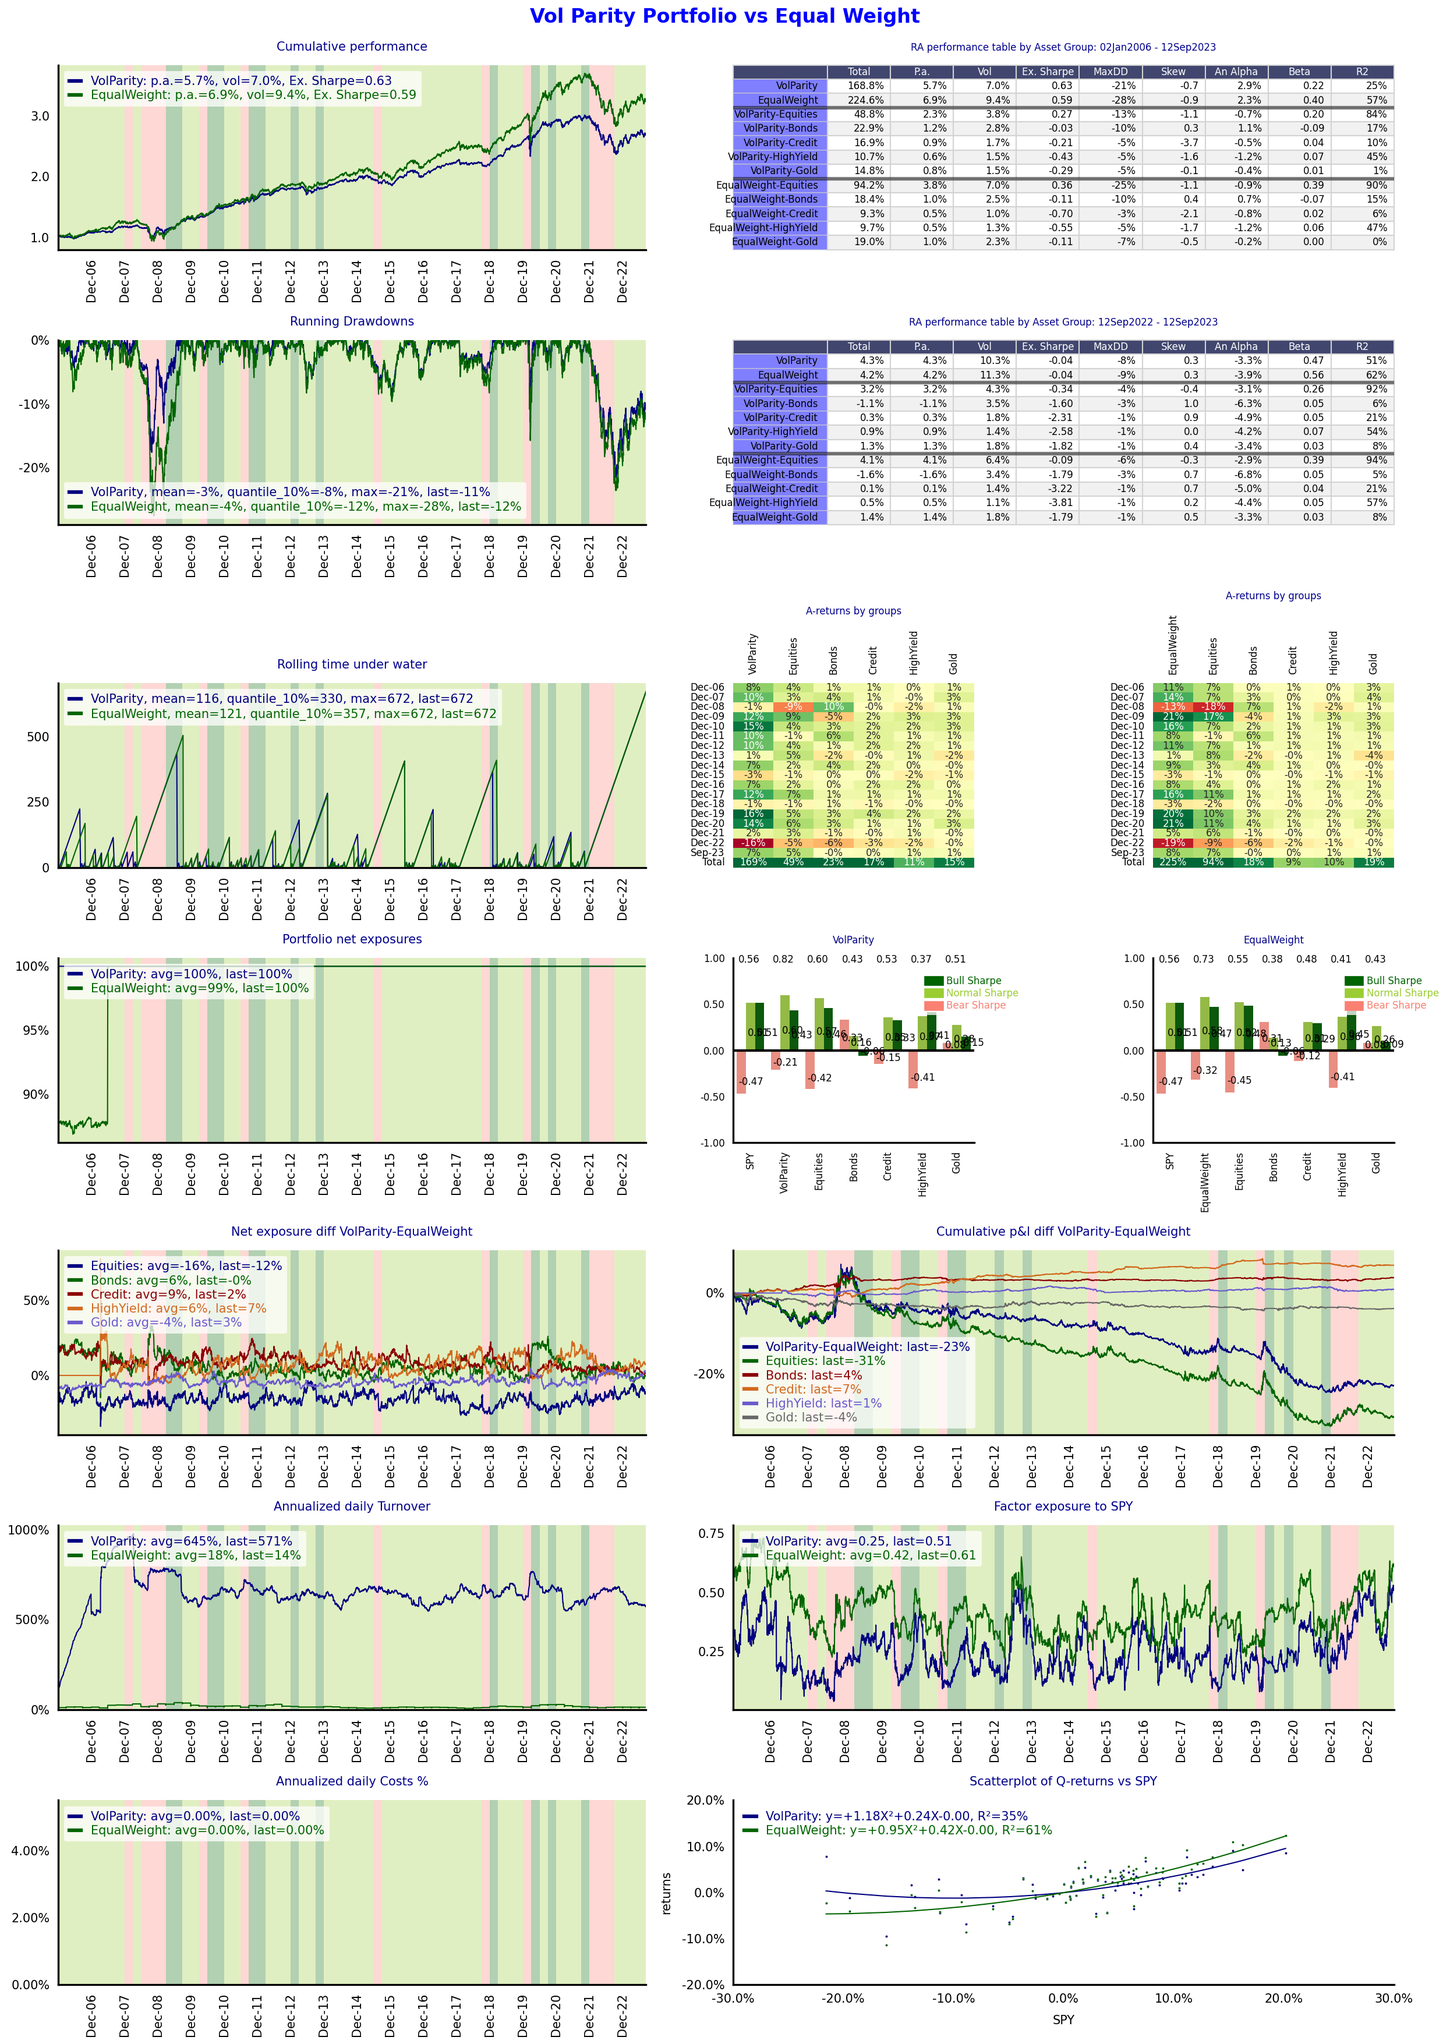
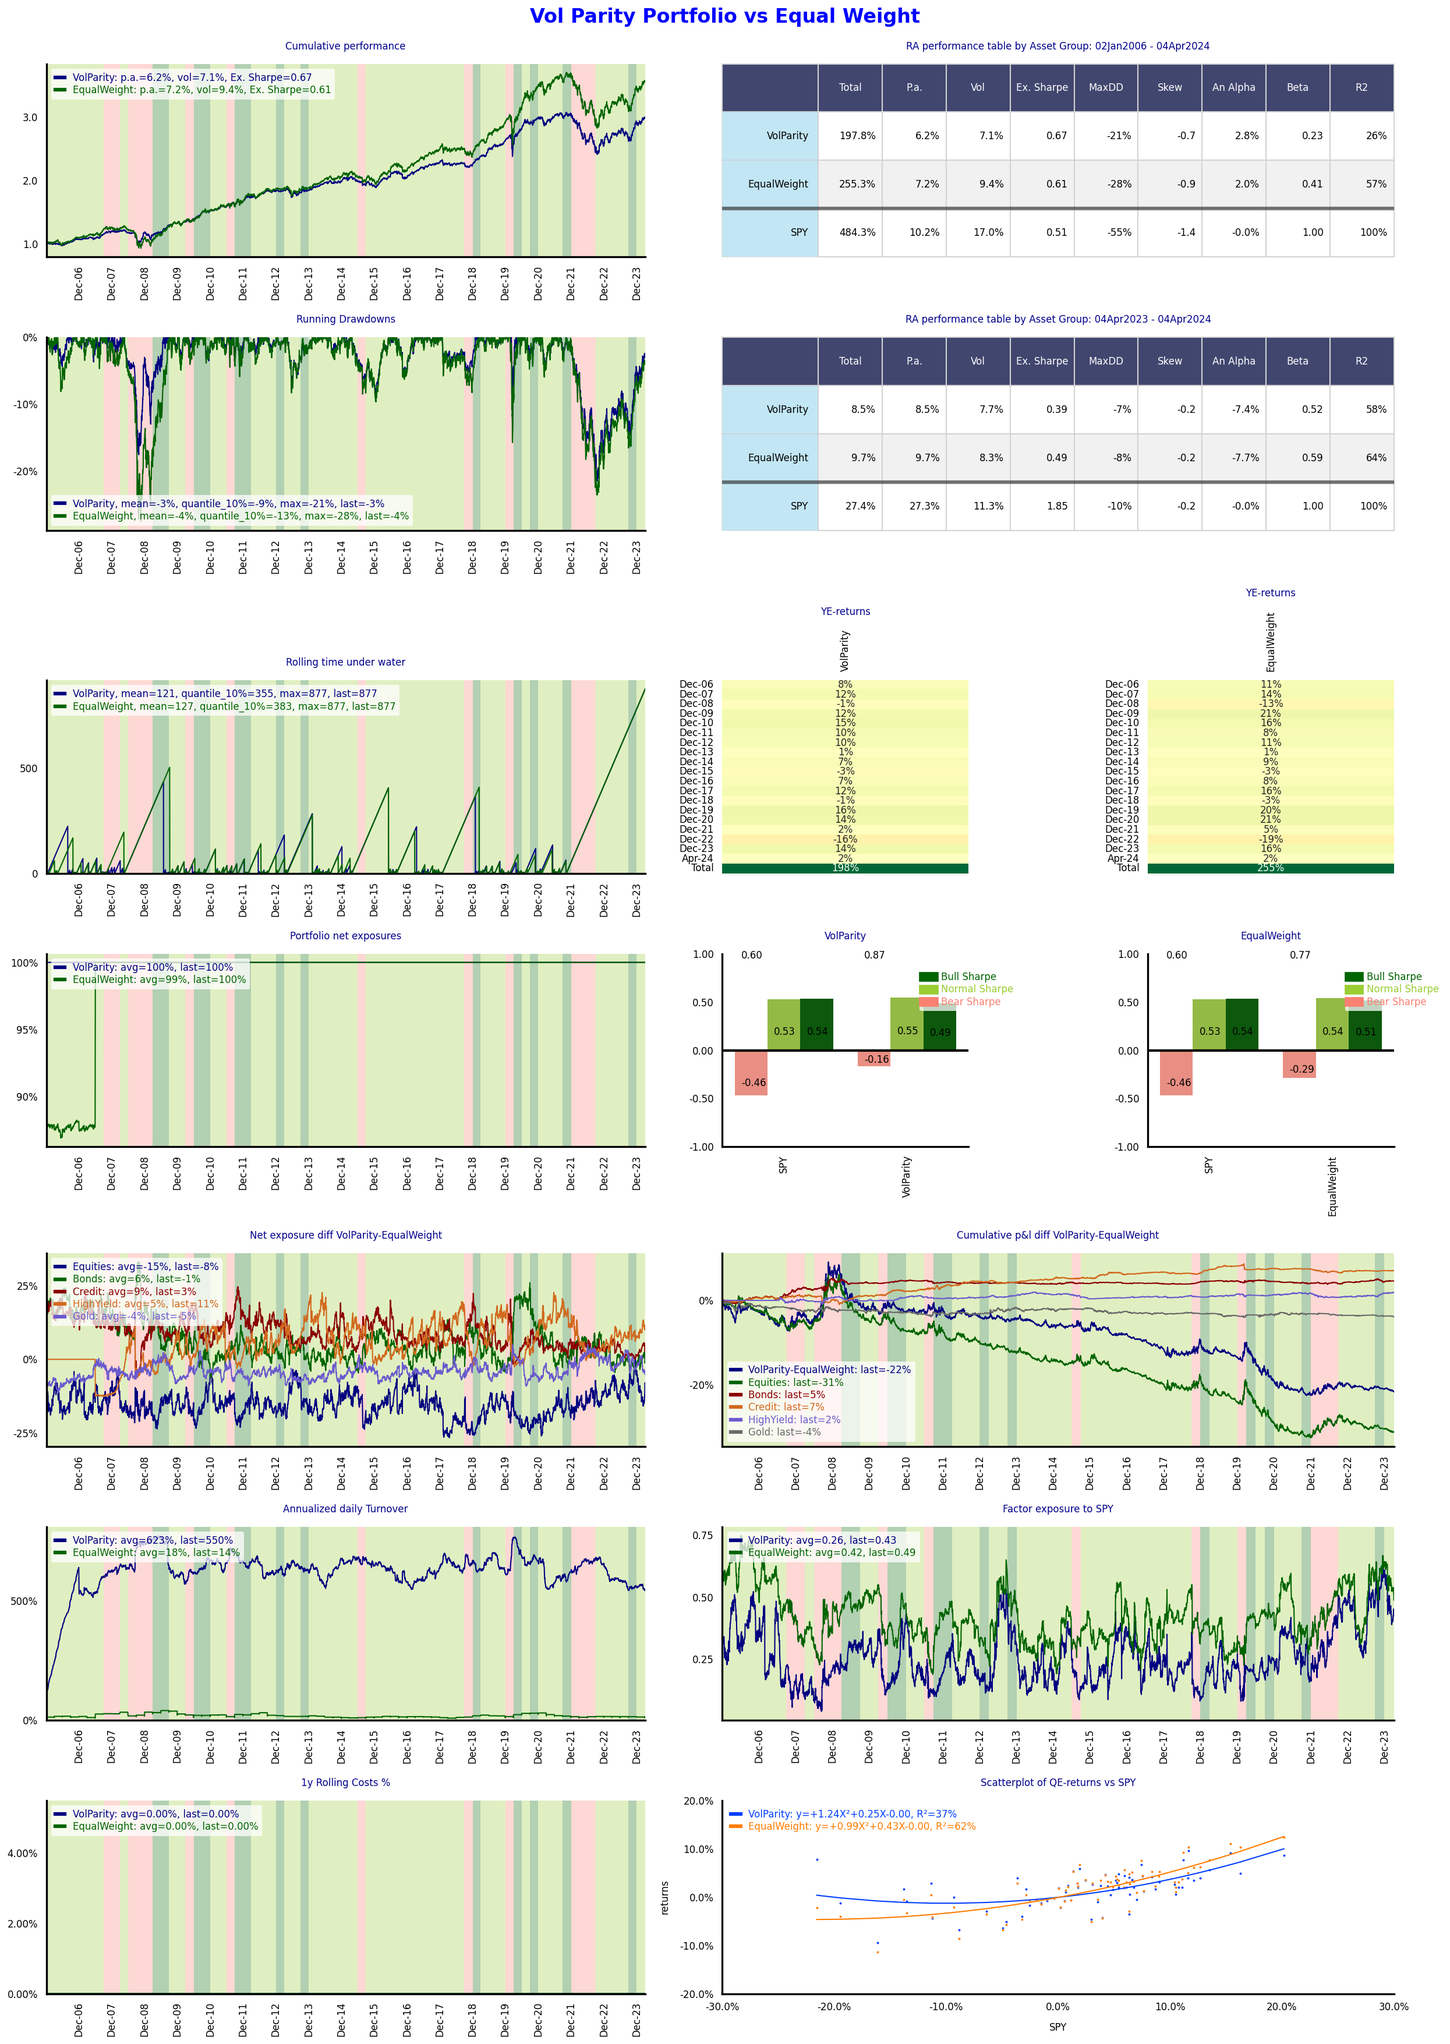
fix computation of days under water with nans

diff --git a/qis/portfolio/reports/strategy_benchmark_factsheet.py b/qis/portfolio/reports/strategy_benchmark_factsheet.py
@@ -38,7 +38,12 @@ def generate_strategy_benchmark_factsheet_plt(multi_portfolio_data: MultiPortfol
     """
     if len(multi_portfolio_data.portfolio_datas) == 1:
         raise ValueError(f"must be at least two strategies")
-
+    
+    if len(multi_portfolio_data.portfolio_datas[0].group_data) <= 7:  # otherwise tables look too bad
+        is_grouped = True
+    else:
+        is_grouped = False
+        
     # set report specific kqargs
     plot_kwargs = dict(fontsize=fontsize,
                        linewidth=0.5,
@@ -53,7 +58,7 @@ def generate_strategy_benchmark_factsheet_plt(multi_portfolio_data: MultiPortfol
     fig = plt.figure(figsize=figsize, constrained_layout=True)
     figs.append(fig)
     gs = fig.add_gridspec(nrows=14, ncols=4, wspace=0.0, hspace=0.0)
-
+    
     if backtest_name is not None:
         fig.suptitle(backtest_name, fontweight="bold", fontsize=8, color='blue')
 
@@ -102,6 +107,7 @@ def generate_strategy_benchmark_factsheet_plt(multi_portfolio_data: MultiPortfol
     multi_portfolio_data.plot_ac_ra_perf_table(ax=fig.add_subplot(gs[0:2, 2:]),
                                                benchmark_price=benchmark_price,
                                                perf_params=perf_params,
+                                               is_grouped=is_grouped,
                                                **qis.update_kwargs(kwargs, dict(fontsize=fontsize)))
 
     time_period1 = qis.get_time_period_shifted_by_years(time_period=time_period)
@@ -109,30 +115,35 @@ def generate_strategy_benchmark_factsheet_plt(multi_portfolio_data: MultiPortfol
     multi_portfolio_data.plot_ac_ra_perf_table(ax=fig.add_subplot(gs[2:4, 2:]),
                                                benchmark_price=benchmark_price,
                                                perf_params=perf_params,
+                                               is_grouped=is_grouped,
                                                **qis.update_kwargs(kwargs, dict(time_period=time_period1, fontsize=fontsize,
                                                                                 alpha_an_factor=52, freq_reg='W-WED')))
 
     # periodic returns
     local_kwargs = qis.update_kwargs(kwargs=kwargs,
                                      new_kwargs=dict(fontsize=fontsize, square=False, x_rotation=90, transpose=False))
-    multi_portfolio_data.portfolio_datas[0].plot_periodic_returns(ax=fig.add_subplot(gs[4:6, 2]),
+    multi_portfolio_data.portfolio_datas[0].plot_periodic_returns(is_grouped=is_grouped,
+                                                                  ax=fig.add_subplot(gs[4:6, 2]),
                                                                   **local_kwargs)
 
-    multi_portfolio_data.portfolio_datas[1].plot_periodic_returns(ax=fig.add_subplot(gs[4:6, 3]),
+    multi_portfolio_data.portfolio_datas[1].plot_periodic_returns(is_grouped=is_grouped,
+                                                                  ax=fig.add_subplot(gs[4:6, 3]),
                                                                   **local_kwargs)
 
-    multi_portfolio_data.portfolio_datas[0].plot_regime_data(ax=fig.add_subplot(gs[6:8, 2]),
-                                                             benchmark_price=benchmark_price,
+    multi_portfolio_data.portfolio_datas[0].plot_regime_data(benchmark_price=benchmark_price,
+                                                             is_grouped=is_grouped,
                                                              title=f"{multi_portfolio_data.portfolio_datas[0].nav.name}",
                                                              perf_params=perf_params,
                                                              regime_params=regime_params,
+                                                             ax=fig.add_subplot(gs[6:8, 2]),
                                                              **qis.update_kwargs(kwargs, dict(fontsize=fontsize, x_rotation=90)))
 
-    multi_portfolio_data.portfolio_datas[1].plot_regime_data(ax=fig.add_subplot(gs[6:8, 3]),
-                                                             benchmark_price=benchmark_price,
+    multi_portfolio_data.portfolio_datas[1].plot_regime_data(benchmark_price=benchmark_price,
+                                                             is_grouped=is_grouped,
                                                              title=f"{multi_portfolio_data.portfolio_datas[1].nav.name}",
                                                              perf_params=perf_params,
                                                              regime_params=regime_params,
+                                                             ax=fig.add_subplot(gs[6:8, 3]),
                                                              **qis.update_kwargs(kwargs, dict(fontsize=fontsize, x_rotation=90)))
 
     # vol regimes

diff --git a/qis/portfolio/reports/strategy_factsheet.py b/qis/portfolio/reports/strategy_factsheet.py
@@ -33,6 +33,11 @@ def generate_strategy_factsheet(portfolio_data: PortfolioData,
     if regime_benchmark is None:
         regime_benchmark = benchmark_prices.columns[0]
 
+    if len(portfolio_data.group_data) <= 7:  # otherwise tables look too bad
+        is_grouped = True
+    else:
+        is_grouped = False
+
     fig = plt.figure(figsize=figsize, constrained_layout=True)
     gs = fig.add_gridspec(nrows=14, ncols=4, wspace=0.0, hspace=0.0)
 
@@ -148,6 +153,7 @@ def generate_strategy_factsheet(portfolio_data: PortfolioData,
                                       benchmark_price=benchmark_prices[regime_benchmark],
                                       time_period=time_period,
                                       perf_params=perf_params,
+                                      is_grouped=is_grouped,
                                       **qis.update_kwargs(kwargs, dict(fontsize=fontsize)))
     ax = fig.add_subplot(gs[1, 2:])
     # change regression to weekly
@@ -155,6 +161,7 @@ def generate_strategy_factsheet(portfolio_data: PortfolioData,
                                       benchmark_price=benchmark_prices[regime_benchmark],
                                       time_period=qis.get_time_period_shifted_by_years(time_period=time_period),
                                       perf_params=perf_params,
+                                      is_grouped=is_grouped,
                                       **qis.update_kwargs(kwargs, dict(fontsize=fontsize, alpha_an_factor=52, freq_reg='W-WED')))
 
     # heatmap
@@ -168,9 +175,10 @@ def generate_strategy_factsheet(portfolio_data: PortfolioData,
     ax = fig.add_subplot(gs[4:6, 2:])
     local_kwargs = qis.update_kwargs(kwargs=kwargs,
                                      new_kwargs=dict(fontsize=fontsize, square=False, x_rotation=90, transpose=True))
-    portfolio_data.plot_periodic_returns(ax=ax,
-                                         benchmark_prices=benchmark_prices,
+    portfolio_data.plot_periodic_returns(benchmark_prices=benchmark_prices,
+                                         is_grouped=is_grouped,
                                          time_period=time_period,
+                                         ax=ax,
                                          **local_kwargs)
 
     # perf contributors
@@ -189,11 +197,12 @@ def generate_strategy_factsheet(portfolio_data: PortfolioData,
 
     # regime data
     ax = fig.add_subplot(gs[8:10, 2:])
-    portfolio_data.plot_regime_data(ax=ax,
+    portfolio_data.plot_regime_data(is_grouped=is_grouped,
                                     benchmark_price=benchmark_prices[regime_benchmark],
                                     time_period=time_period,
                                     perf_params=perf_params,
                                     regime_params=regime_params,
+                                    ax=ax,
                                     **kwargs)
 
     # vol regime data
@@ -257,7 +266,7 @@ def generate_strategy_factsheet(portfolio_data: PortfolioData,
                                      **local_kwargs)
                 qis.add_bnb_regime_shadows(ax=ax, pivot_prices=pivot_prices, regime_params=regime_params)
                 qis.set_spines(ax=ax, bottom_spine=False, left_spine=False)
-                ax.axhline(0, color='black', linewidth=1)
+                ax.axhline(0, color='black', linewidth=0.5)
 
     if add_grouped_cum_pnl:
         time_period1 = qis.get_time_period_shifted_by_years(time_period=time_period)

diff --git a/qis/portfolio/multi_portfolio_data.py b/qis/portfolio/multi_portfolio_data.py
@@ -232,8 +232,15 @@ class MultiPortfolioData:
                               time_period: TimePeriod = None,
                               perf_params: PerfParams = PERF_PARAMS,
                               perf_columns: List[PerfStat] = rpt.BENCHMARK_TABLE_COLUMNS,
+                              is_grouped: bool = True,
                               ax: plt.Subplot = None,
                               **kwargs) -> None:
+        if is_grouped:  # otherwise tables look too bad
+            add_ac = True
+            drop_benchmark = True
+        else:
+            add_ac = False
+            drop_benchmark = False
         strategy_prices = []
         ac_prices = []
         rows_edge_lines = [len(self.portfolio_datas)]
@@ -241,18 +248,23 @@ class MultiPortfolioData:
             portfolio_name = str(portfolio.nav.name)
             prices_ = portfolio.get_ac_navs(time_period=time_period)
             strategy_prices.append(prices_[portfolio_name])
-            ac_prices_ = prices_.drop(portfolio_name, axis=1)
-            ac_prices_.columns = [f"{portfolio_name}-{x}" for x in ac_prices_.columns]
-            ac_prices.append(ac_prices_)
-            rows_edge_lines.append(sum(rows_edge_lines)+len(ac_prices_.columns))
+            if add_ac:
+                ac_prices_ = prices_.drop(portfolio_name, axis=1)
+                ac_prices_.columns = [f"{portfolio_name}-{x}" for x in ac_prices_.columns]
+                ac_prices.append(ac_prices_)
+                rows_edge_lines.append(sum(rows_edge_lines)+len(ac_prices_.columns))
         strategy_prices = pd.concat(strategy_prices, axis=1)
-        ac_prices = pd.concat(ac_prices, axis=1)
-        prices = pd.concat([benchmark_price.reindex(index=strategy_prices.index, method='ffill'), strategy_prices, ac_prices], axis=1)
+        benchmark_price = benchmark_price.reindex(index=strategy_prices.index, method='ffill')
+        if add_ac:  # otherwise tables look too bad
+            ac_prices = pd.concat(ac_prices, axis=1)
+            prices = pd.concat([benchmark_price, strategy_prices, ac_prices],axis=1)
+        else:
+            prices = pd.concat([strategy_prices, benchmark_price], axis=1)
         ppt.plot_ra_perf_table_benchmark(prices=prices,
                                          benchmark=str(benchmark_price.name),
                                          perf_params=perf_params,
                                          perf_columns=perf_columns,
-                                         drop_benchmark=True,
+                                         drop_benchmark=drop_benchmark,
                                          rows_edge_lines=rows_edge_lines,
                                          title=f"RA performance table by Asset Group: {qis.get_time_period(prices).to_str()}",
                                          rotation_for_columns_headers=0,

diff --git a/qis/portfolio/portfolio_data.py b/qis/portfolio/portfolio_data.py
@@ -514,7 +514,7 @@ class PortfolioData:
             prices = self.get_ac_navs(time_period=time_period)
             title = title or f"RA performance table by groups: {da.get_time_period(prices).to_str()}"
         else:
-            prices = self.get_portfolio_nav(time_period=time_period)
+            prices = self.get_portfolio_nav(time_period=time_period).to_frame()
             title = title or f"RA performance table: {da.get_time_period(prices).to_str()}"
         if benchmark_price is not None:
             if benchmark_price.name not in prices.columns:
@@ -598,7 +598,7 @@ class PortfolioData:
             prices = self.get_ac_navs(time_period=time_period)
             title = title or f"{heatmap_freq}-returns by groups"
         else:
-            prices = self.get_portfolio_nav(time_period=time_period)
+            prices = self.get_portfolio_nav(time_period=time_period).to_frame()
             title = title or f"{heatmap_freq}-returns"
         if benchmark_prices is not None:
             hline_rows = [len(prices.columns)]
@@ -634,7 +634,7 @@ class PortfolioData:
             prices = self.get_ac_navs(time_period=time_period)
             title = title or f"Sharpe ratio decomposition by groups to {str(benchmark_price.name)} Bear/Normal/Bull regimes"
         else:
-            prices = self.get_portfolio_nav(time_period=time_period)
+            prices = self.get_portfolio_nav(time_period=time_period).to_frame()
             title = title or f"Sharpe ratio decomposition to {str(benchmark_price.name)} Bear/Normal/Bull regimes"
 
         if benchmark_price.name not in prices.columns:

diff --git a/qis/perfstats/perf_stats.py b/qis/perfstats/perf_stats.py
@@ -339,8 +339,8 @@ def compute_rolling_drawdowns(prices: Union[pd.DataFrame, pd.Series],
     if not isinstance(prices, pd.Series) and not isinstance(prices, pd.DataFrame):
         raise ValueError(f"unsuported type {type(prices)}")
     peak = prices.expanding(min_periods=min_periods).max()
-    max_dd = prices.divide(peak)-1.0
-    return max_dd
+    drawdown = (prices.divide(peak)-1.0).ffill()  # ffill nans
+    return drawdown
 
 
 def compute_rolling_drawdown_time_under_water(prices: Union[pd.DataFrame, pd.Series],
@@ -352,10 +352,10 @@ def compute_rolling_drawdown_time_under_water(prices: Union[pd.DataFrame, pd.Ser
     """
     if not isinstance(prices, pd.Series) and not isinstance(prices, pd.DataFrame):
         raise ValueError(f"unsuported type {type(prices)}")
-    prices = prices.asfreq(freq=sampling_freq, method='ffill')
+    prices = prices.asfreq(freq=sampling_freq, method='ffill').ffill()
     # find expanding peak
     peak = prices.expanding(min_periods=1).max()
-    drawdown = prices.divide(peak) - 1.0
+    drawdown = (prices.divide(peak)-1.0).ffill()  # ffill nans
     if isinstance(prices, pd.DataFrame):
         is_in_dd = pd.DataFrame(np.where(prices < peak, 1.0, np.nan), index=prices.index, columns=prices.columns)
     else:
@@ -363,6 +363,7 @@ def compute_rolling_drawdown_time_under_water(prices: Union[pd.DataFrame, pd.Ser
 
     # cumsum until first nan for series
     time_under_water = is_in_dd.apply(lambda x: x.groupby(x.isna().cumsum()).cumsum(), axis=0)
+    time_under_water = time_under_water.fillna(0.0)
     return drawdown, time_under_water
 
 

diff --git a/qis/plots/derived/returns_heatmap.py b/qis/plots/derived/returns_heatmap.py
@@ -240,7 +240,10 @@ def plot_periodic_returns_table(prices: pd.DataFrame,
     data = ret.to_returns(prices=prices, freq=freq, include_start_date=True, include_end_date=True, drop_first=True)
     total_return = ret.to_total_returns(prices=prices).rename(total_name).to_frame().T
     data = pd.concat([data, total_return], axis=0)
-    np_data = data.to_numpy()[:-1, :-1]  # exclude last row from cmap
+    if len(data.columns) > 1:
+        np_data = data.to_numpy()[:-1, :-1]  # exclude last row from cmap
+    else:
+        np_data = data.to_numpy()
     fig = plot_heatmap(df=data,
                        vline_columns=[len(data.index)-1],
                        transpose=transpose,

diff --git a/qis/portfolio/reports/multi_assets_factsheet.py b/qis/portfolio/reports/multi_assets_factsheet.py
@@ -225,7 +225,7 @@ class MultiAssetsReport:
 
     def plot_benchmark_beta(self,
                             benchmark: str,
-                            freq: str = 'M',
+                            freq: str = 'ME',
                             span: int = 12,
                             time_period: TimePeriod = None,
                             ax: plt.Subplot = None,

diff --git a/setup.py b/setup.py
@@ -16,7 +16,7 @@ requirements = read_requirements("requirements.txt")
 
 setup(
     name='qis',
-    version='2.0.46',
+    version='2.0.47',
     author='Artur Sepp',
     author_email='artursepp@gmail.com',
     url='https://github.com/ArturSepp/QuantInvestStrats',
